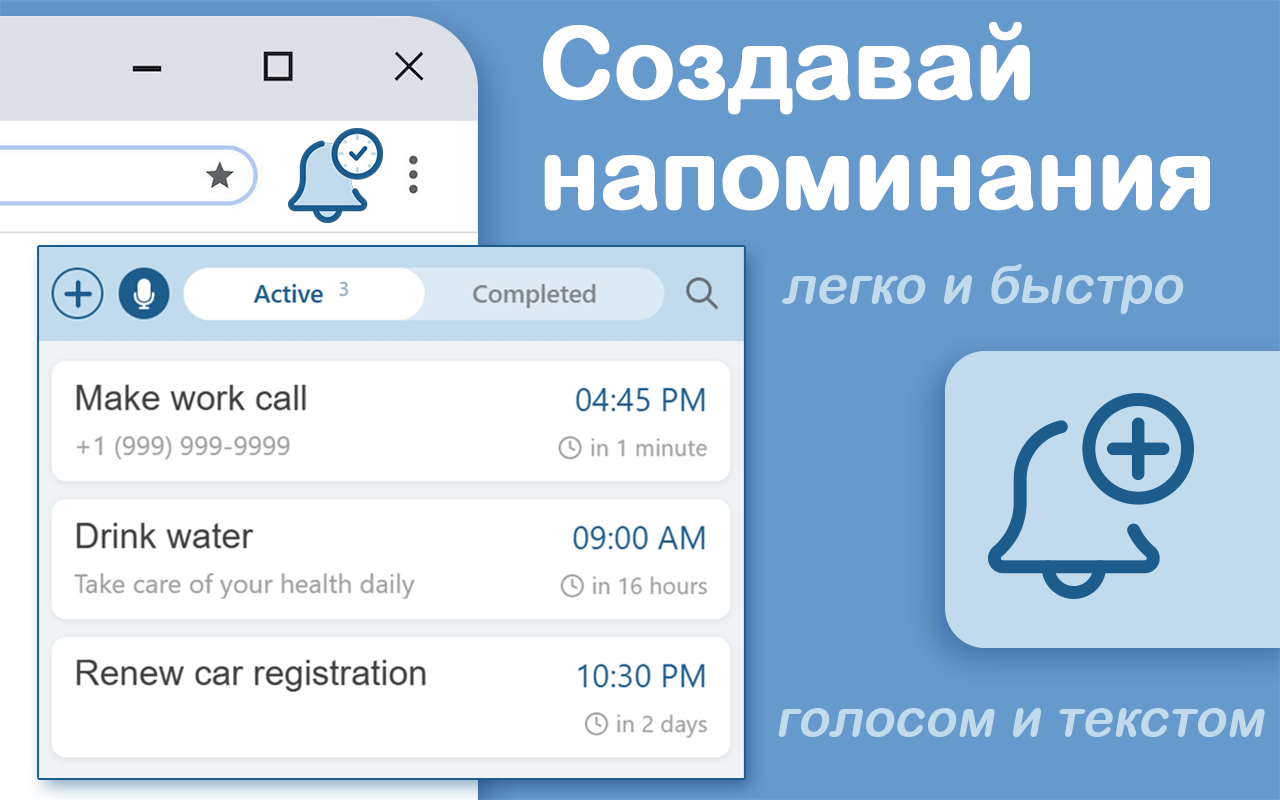
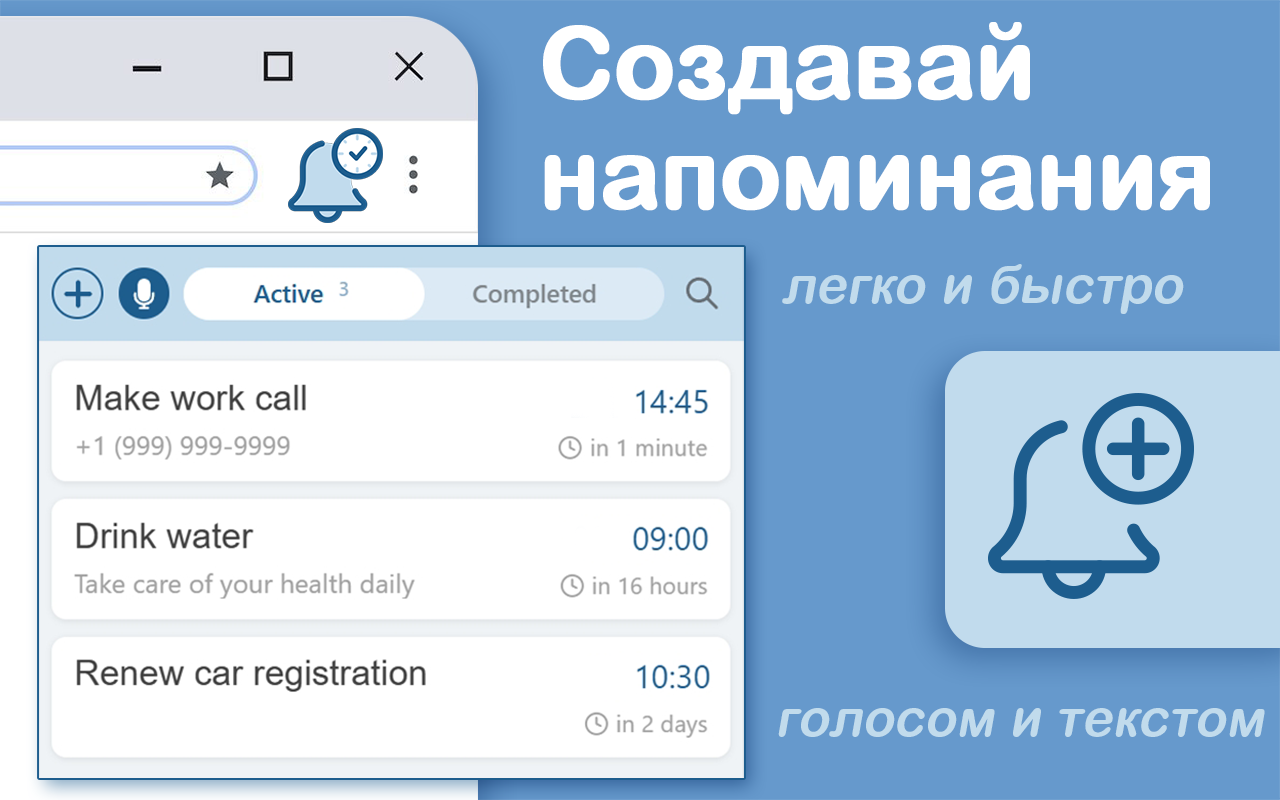
fixes

Changed region(s): [[0.4375, 0.8125, 0.5625, 0.875], [0.4375, 0.4688, 0.5625, 0.5312], [0.4375, 0.6562, 0.5625, 0.6875]]

diff --git a/modules/reminderService.ts b/modules/reminderService.ts
@@ -75,18 +75,21 @@ export class ReminderService {
             id = await this.repository.add(reminderParams);
         }
 
-        reminderParams.completed = +reminderParams.datetime! >= Date.now() ? 0 : reminderParams.completed; //обязательно должно быть перед блоком ниже, иначе не сработает alert, если восстанавливаешь из завершенных
+        const reminder = await this.repository.getById(id) ?? reminderParams; //актуальная запись из бд должна быть, reminderParams оставил чисто для typescript
+        const isFuture = +reminder.datetime! >= Date.now();
+        
+        reminder.completed = isFuture ? 0 : reminder.completed; //для подстраховки, иначе не сработает alert, если восстанавливаешь из завершенных (а completed кешированный)
 
         try {
-            if (reminderParams.datetime && !reminderParams.completed){
-                await this.createAlarm(id, reminderParams.datetime)
+            if (isFuture && reminder.datetime && !reminder.completed){
+                await this.createAlarm(id, reminder.datetime)
             }
 
             if (shouldSendMessage) {
-                if (reminderParams.googleSync === 0 || reminderParams.recurrencePause){
+                if (reminder.googleEventId && (reminder.googleSync === 0 || reminder.recurrencePause)){
                     browser.runtime.sendMessage({
                         action : 'GOOGLE_DELETE_EVENT',
-                        reminderId: id
+                        googleEventId: reminder.googleEventId
                     })
                 } else {
                     browser.runtime.sendMessage({
@@ -124,9 +127,10 @@ export class ReminderService {
 
     async delete(reminder: Reminder, sendMessage: boolean = true) {
         try {
+            const googleEventId = reminder.googleEventId;
             await this.repository.delete(reminder.id!);
             browser.alarms.clear(reminderIdToAlarmName(reminder.id!));
-            sendMessage && browser.runtime.sendMessage({action: 'GOOGLE_DELETE_EVENT', reminderId: reminder.id});
+            sendMessage && browser.runtime.sendMessage({action: 'GOOGLE_DELETE_EVENT', googleEventId});
             await this.#updatedCallback();
         } catch (e) {
             console.error(e);
@@ -135,13 +139,27 @@ export class ReminderService {
 
     async complete(reminder: Reminder, sendMessage: boolean = true) {
         try {
+            const googleEventId = reminder.googleEventId;
             await this.repository.complete(reminder.id!);
             browser.alarms.clear(reminderIdToAlarmName(reminder.id!));
-            sendMessage && browser.runtime.sendMessage({ action : 'GOOGLE_DELETE_EVENT', reminderId: reminder.id});
+            sendMessage && browser.runtime.sendMessage({ action : 'GOOGLE_DELETE_EVENT', googleEventId});
             await this.#updatedCallback();
         } catch (e) {
             console.error(e);
         }
+    }
+
+    async toNextRecurrence(reminder: Reminder) {
+        const nextDatetime = await this.getNextOccurrence(reminder, reminder.datetime);
+        
+        if (nextDatetime){
+            return this.save({
+                ...reminder,
+                datetime: nextDatetime
+            });
+        }
+        
+        return this.complete(reminder);
     }
 
     async getAllGoogleEventsIds(){

diff --git a/entrypoints/main/App.vue b/entrypoints/main/App.vue
@@ -64,6 +64,7 @@
                 '--completed': item.completed, 
                 '--soon': soon.includes(item.id),
                 '--paused': item.recurrence?.length && item.recurrencePause,
+                '--recurrence': !!item.recurrence?.length,
              }"
                :id="`reminder-${item.id}`"
                @mouseenter.once="$event.target.title = reminderService.getPreviewTitle(item, now)"
@@ -81,15 +82,15 @@
                   <span>{{ browser.i18n.getMessage('reminder_paused') }}</span>
                 </template> 
                 <template v-else>
-                  <IconTimer width="14" height="14"/>
-                  <span>{{ reminderService.getTimeUntil(item, now) }}</span>
                   <IconChecks v-if="item.completed" width="16" height="16"/>
+                  <IconTimer v-else width="14" height="14"/>
+                  <span>{{ reminderService.getTimeUntil(item, now) }}</span>
                 </template> 
               </div>
             </div>
 
             <div class="reminders-item__actions" @click="showEditPanel(item)">
-              <div class="reminders-item__actions-inner" @click.stop>
+              <div class="reminders-item__actions-inner" @click.stop title=" ">
                 <button class="reminders-item__action reminders-item__action--edit" :title="browser.i18n.getMessage('edit')" @click.stop="showEditPanel(item)">
                   <IconEdit/>
                 </button>
@@ -103,12 +104,13 @@
                   <IconPause v-else/>
                 </button>
                 <button
-                    v-if="!item.completed && (group.isToday || expired.includes(item.id))"
+                    v-if="!item.completed && (!item.recurrencePause && (group.isToday || expired.includes(item.id)))"
                     class="reminders-item__action reminders-item__action--complete"
                     :title="browser.i18n.getMessage('complete')"
                     @click.stop="complete(item)"
                 >
-                  <IconChecks/>
+                  <IconCheck v-if="item.recurrence?.length" height="20" width="20"/>
+                  <IconChecks v-else/>
                 </button>
                 <button v-else
                         class="reminders-item__action reminders-item__action--delete"
@@ -200,6 +202,7 @@ import IconEye from "@/components/icons/IconEye.vue";
 import {omitBy} from "es-toolkit";
 import IconPause from "@/components/icons/IconPause.vue";
 import IconPlay from "@/components/icons/IconPlay.vue";
+import IconCheck from "@/components/icons/IconCheck.vue";
 
 const props = defineProps({
   editingPanelVisible: {
@@ -356,12 +359,18 @@ const actualize = () => {
 }
 
 const complete = (item) => {
-  document.getElementById('reminder-' + item.id)?.classList.add('--moving');
+  const el = document.getElementById('reminder-' + item.id);
+  
+  if (item.recurrence?.length && ! item.recurrencePause) {
+    reminderService.toNextRecurrence(item);
+  } else {
+    el?.classList.add('--moving');
 
-  setTimeout(() => {
-    reminderService.complete(item);
-    now.value = new Date();
-  }, 300)
+    setTimeout(() => {
+      reminderService.complete(item);
+      now.value = new Date();
+    }, 300)
+  }
 }
 
 const deleteItem = (item) => {

diff --git a/assets/scss/_reminders.scss b/assets/scss/_reminders.scss
@@ -141,6 +141,16 @@
       }
     }
 
+    &.--recurrence {
+      #{$reminderItem}__actions{
+        backdrop-filter: none !important;
+      }
+      
+      &:hover #{$reminderItem}__text-box{
+        filter: blur(2px);
+      }
+    }
+
     &:hover {
       transform: translateY(-2px);
       box-shadow: var(--box-shadow-hovered);
@@ -174,9 +184,11 @@
       -webkit-line-clamp: 1;
       overflow: hidden;
       color: var(--color-light);
-      line-height: 1.2;
+      line-height: 1.25;
       margin-top: 6px;
-
+      word-break: break-all;
+      overflow-wrap: break-word;
+      
       &:empty {
         display: none;
       }
@@ -237,6 +249,10 @@
       width: 100%;
       height: 100%;
       z-index: -1;
+      
+      &.--recurrence{
+        //clip-path: inset(0 100px 0 0);
+      }
 
       &-inner {
         display: flex;
@@ -244,7 +260,7 @@
         align-items: center;
         gap: 15px;
         height: 100%;
-        width: 40%;
+        width: 50%;
         margin: 0 auto;
         cursor: default;
       }
@@ -287,7 +303,7 @@
       position: relative;
       z-index: 1;
 
-      &:hover {
+      &:hover:not(:active) {
         transform: scale(1.1);
       }
 

diff --git a/modules/googleCalendarService.ts b/modules/googleCalendarService.ts
@@ -740,14 +740,14 @@ export class GoogleCalendarService {
                 return;
             }
 
-            await this.#deleteEvent(reminder.googleEventId!, reminder.recurrencePause);
+            await this.deleteEvent(reminder.googleEventId!);
         } catch (error) {
             console.error('Error creating event from reminder:', error);
             // Не пробрасываем ошибку дальше
         }
     }
 
-    async #deleteEvent(eventId?: string, deleteRecurrences: boolean|0|1 = false): Promise<void> {
+    async deleteEvent(eventId?: string): Promise<void> {
         if (!eventId || !this.currentUser) return;
 
         try {
@@ -816,7 +816,7 @@ export class GoogleCalendarService {
             }
 
             for (let eventId of deletingEvents) {
-                await this.#deleteEvent(eventId!);
+                await this.deleteEvent(eventId!);
             }
 
             await this.#googleLastSyncTsStore.setValue(Date.now());

diff --git a/wxt.config.ts b/wxt.config.ts
@@ -39,7 +39,7 @@ export default defineConfig({
[1 lines of base64/hex data omitted]
         }),
         "oauth2": {
-            "client_id": import.meta.env.OAUTH_CLIENT_ID,
+            "client_id": process.env.OAUTH_CLIENT_ID,
             "scopes": [
                 "https://www.googleapis.com/auth/calendar",
                 "https://www.googleapis.com/auth/userinfo.email",

diff --git a/entrypoints/background.ts b/entrypoints/background.ts
@@ -426,8 +426,8 @@ export default defineBackground({
 
                         case 'GOOGLE_DELETE_EVENT':
                             if (await GoogleCalendarService.instance().checkUser()){
-                                const reminder = await ReminderService.instance().repository.getById(request.reminderId)
-                                reminder && await GoogleCalendarService.instance().deleteEventByReminder(reminder);
+                                // УДАЛЯЕМ СРАЗУ ПО googleEventId, т.к. в БД ЕГО уже не будет!!!
+                                await GoogleCalendarService.instance().deleteEvent(request.googleEventId); 
                                 success = true;
                             }
 
